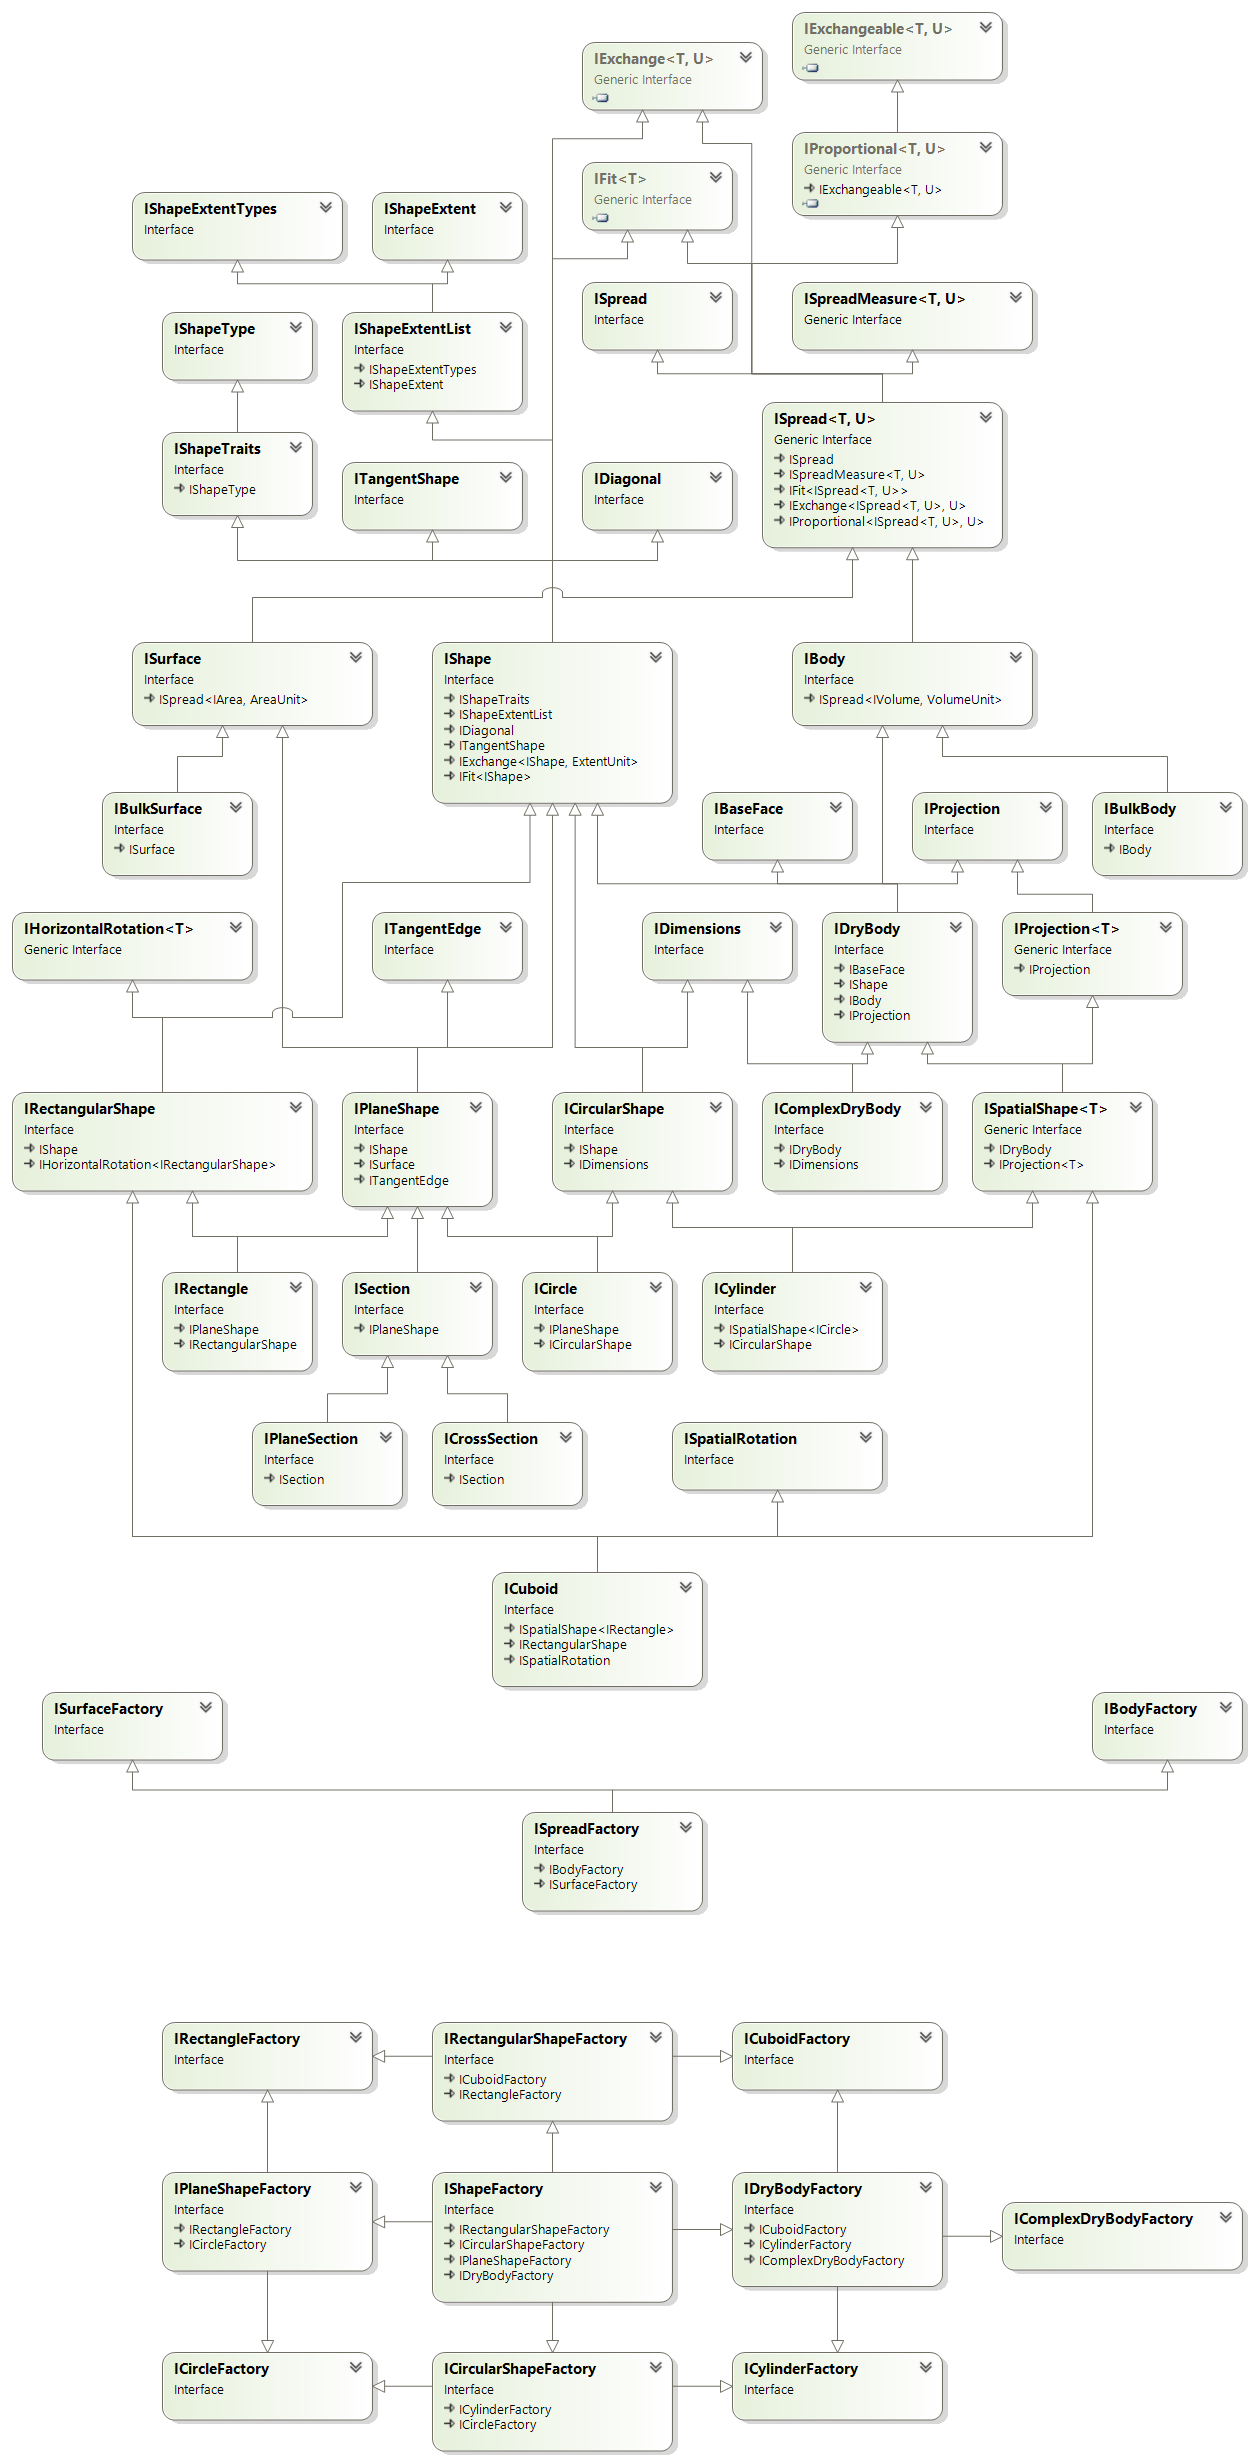
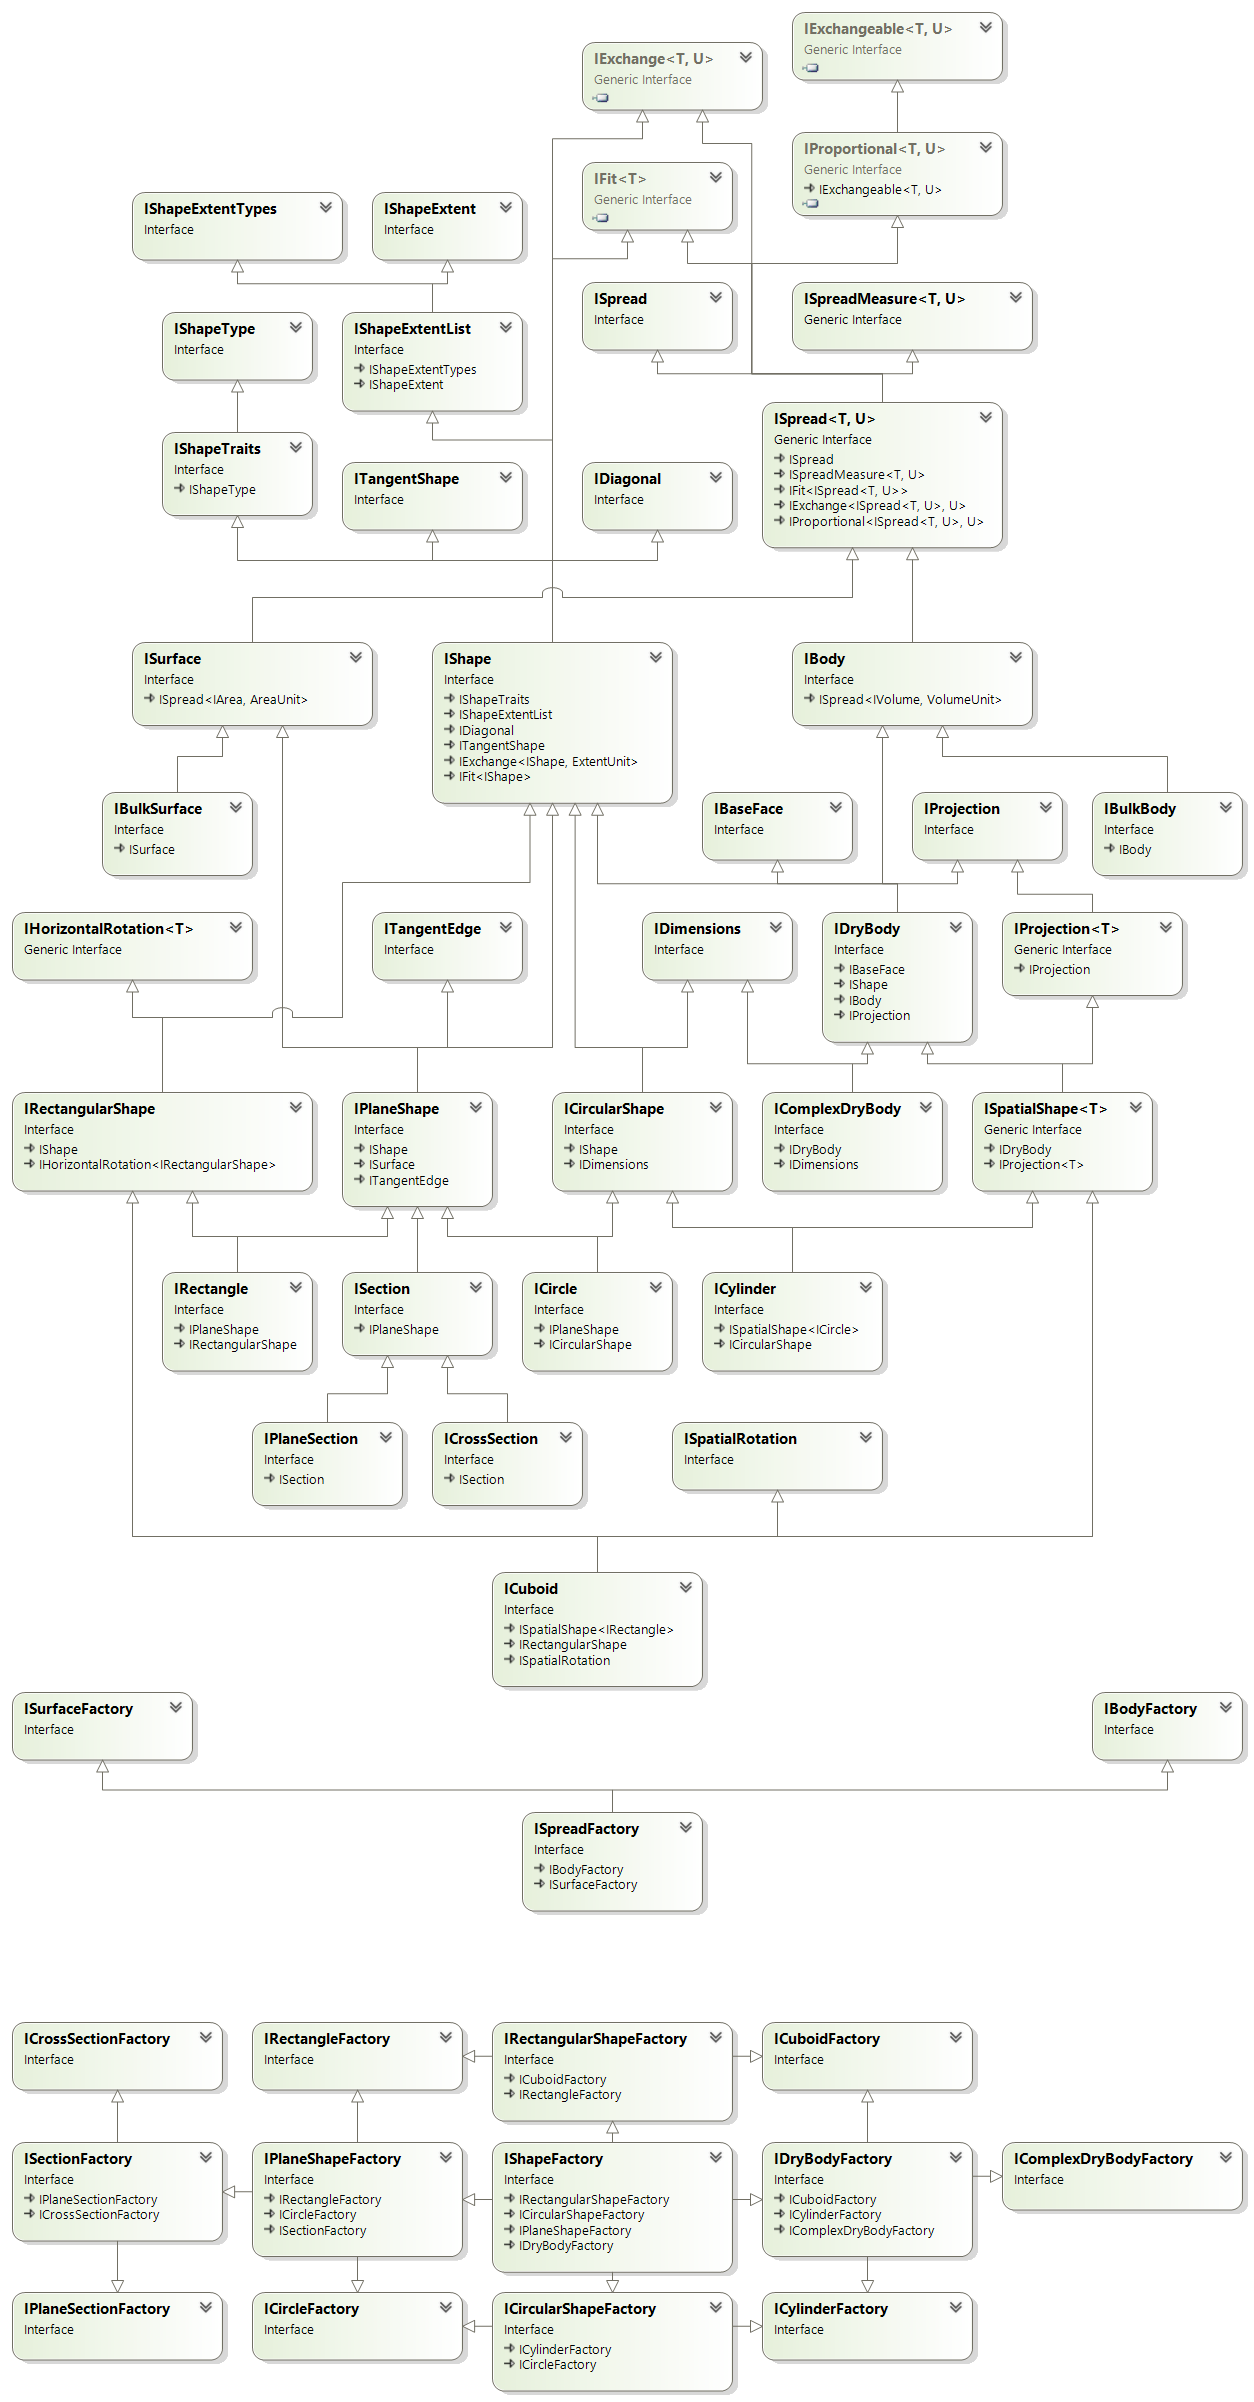
implement section factories

diff --git a/Geometrics/Factories/ShapeFactory.cs b/Geometrics/Factories/ShapeFactory.cs
@@ -3,7 +3,6 @@ using CsabaDu.FooVar.Geometrics.Interfaces.DataTypes.Shape;
 using CsabaDu.FooVar.Geometrics.Interfaces.DataTypes.Shape.ShapeAspects;
 using CsabaDu.FooVar.Geometrics.Interfaces.DataTypes.Shape.ShapeTypes;
 using CsabaDu.FooVar.Geometrics.Interfaces.Factories.Shape;
-using CsabaDu.FooVar.Geometrics.Statics;
 
 namespace CsabaDu.FooVar.Geometrics.Factories;
 
@@ -92,18 +91,23 @@ public sealed class ShapeFactory : IShapeFactory
         };
     }
 
-    public IPlaneShape GetPlaneShape(IPlaneShape planeShape)
+    public IPlaneShape GetPlaneShape(IPlaneShape planeShape, IRectangle? cornerPadding = null, ShapeExtentType? perpendicular = null)
     {
         _ = planeShape ?? throw new ArgumentNullException(nameof(planeShape));
+
+        if (cornerPadding == null)
+        {
+            IExtent[] shapeExtents = planeShape.GetShapeExtentList().ToArray();
+
+            return GetPlaneShape(shapeExtents);
+        }
 
         if (planeShape is ISection section)
         {
             planeShape = section.PlaneSectionShape;
         }
 
-        IExtent[] shapeExtents = planeShape.GetShapeExtentList().ToArray();
-
-        return GetPlaneShape(shapeExtents);
+        return GetSection(planeShape, cornerPadding, perpendicular);
     }
 
     public IRectangularShape GetRectangularShape(params IExtent[] shapeExtents)
@@ -177,5 +181,39 @@ public sealed class ShapeFactory : IShapeFactory
     public IComplexDryBody GetComplexDryBody(IEnumerable<IExtent> innerShapeExtentList, IEnumerable<IExtent>? outerShapeExtentList = null)
     {
         return new ComplexDryBody(innerShapeExtentList, outerShapeExtentList);
+    }
+
+    public ISection GetSection(IPlaneShape planeSectionShape, IRectangle cornerPadding, ShapeExtentType? perpendicular = null)
+    {
+        return perpendicular is not ShapeExtentType notNullPerpendicular ?
+            GetPlaneSection(planeSectionShape, cornerPadding)
+            : GetCrossSection(planeSectionShape, cornerPadding, notNullPerpendicular);
+    }
+
+    public ISection GetSection(ISection section, ShapeExtentType? perpendicular = null)
+    {
+        return perpendicular is not ShapeExtentType notNullPerpendicular ?
+            GetPlaneSection(section)
+            : GetCrossSection(section, notNullPerpendicular);
+    }
+
+    public IPlaneSection GetPlaneSection(IPlaneShape planeSectionShape, IRectangle cornerPadding)
+    {
+        return new PlaneSection(planeSectionShape, cornerPadding);
+    }
+
+    public IPlaneSection GetPlaneSection(ISection section)
+    {
+        return new PlaneSection(section);
+    }
+
+    public ICrossSection GetCrossSection(IPlaneShape planeSectionShape, IRectangle cornerPadding, ShapeExtentType perpendicular)
+    {
+        return new CrossSection(planeSectionShape, cornerPadding, perpendicular);
+    }
+
+    public ICrossSection GetCrossSection(ISection section, ShapeExtentType perpendicular)
+    {
+        return new CrossSection(section, perpendicular);
     }
 }

diff --git a/Geometrics/DataTypes/Shape/ShapeTypes/CrossSection.cs b/Geometrics/DataTypes/Shape/ShapeTypes/CrossSection.cs
@@ -2,8 +2,9 @@
 using CsabaDu.FooVar.Geometrics.DataTypes.Shape.ShapeTypes;
 using CsabaDu.FooVar.Geometrics.Interfaces.DataTypes.Shape.ShapeAspects;
 using CsabaDu.FooVar.Geometrics.Interfaces.DataTypes.Shape.ShapeTypes;
+using CsabaDu.FooVar.Geometrics.Statics;
 
-namespace Geometrics.DataTypes.Shape.ShapeTypes;
+namespace CsabaDu.FooVar.Geometrics.DataTypes.Shape.ShapeTypes;
 
 internal sealed class CrossSection : Section, ICrossSection
 {
@@ -48,7 +49,8 @@ internal sealed class CrossSection : Section, ICrossSection
             ShapeExtentType.Length => new Cuboid(width, depth, length),
             ShapeExtentType.Width => new Cuboid(length, depth, width),
             ShapeExtentType.Height => new Cuboid(length, width, depth),
-            _ => throw new NotImplementedException(),
+
+            _ => throw new InvalidOperationException(null),
         };
     }
 
@@ -67,21 +69,10 @@ internal sealed class CrossSection : Section, ICrossSection
 
     public void ValidatePerpendicular(ShapeExtentType perpendicular)
     {
-        if (IsValidPerpendicular(perpendicular)) return;
+        if (perpendicular == ShapeExtentType.Height) return;
+
+        if (perpendicular.IsValidShapeExtentType(ShapeTraits) == true) return;
 
         throw new ArgumentOutOfRangeException(nameof(perpendicular), perpendicular, null);
-    }
-
-    private bool IsValidPerpendicular(ShapeExtentType perpendicular)
-    {
-        return perpendicular switch
-        {
-            ShapeExtentType.Radius => ShapeTraits.HasFlag(ShapeTrait.Circular),
-            ShapeExtentType.Length => !ShapeTraits.HasFlag(ShapeTrait.Circular),
-            ShapeExtentType.Width => !ShapeTraits.HasFlag(ShapeTrait.Circular),
-            ShapeExtentType.Height => !ShapeTraits.HasFlag(ShapeTrait.Plane),
-
-            _ => false,
-        };
     }
 }

diff --git a/Geometrics/DataTypes/Shape/ShapeAspects/PlaneShape.cs b/Geometrics/DataTypes/Shape/ShapeAspects/PlaneShape.cs
@@ -1,6 +1,7 @@
 using CsabaDu.FooVar.Geometrics.Factories;
 using CsabaDu.FooVar.Geometrics.Interfaces.DataTypes.Shape;
 using CsabaDu.FooVar.Geometrics.Interfaces.DataTypes.Shape.ShapeAspects;
+using CsabaDu.FooVar.Geometrics.Interfaces.DataTypes.Shape.ShapeTypes;
 using CsabaDu.FooVar.Geometrics.Interfaces.DataTypes.Spread;
 
 namespace CsabaDu.FooVar.Geometrics.DataTypes.Shape.ShapeAspects;
@@ -46,9 +47,10 @@ internal abstract class PlaneShape : Shape, IPlaneShape
         return ShapeFactory.GetPlaneShape(shapeExtents);
     }
 
-    public IPlaneShape GetPlaneShape(IPlaneShape planeShape)
+    public IPlaneShape GetPlaneShape(IPlaneShape planeShape, IPlaneShape? cornerPadding = null, ShapeExtentType? perpendicular = null)
     {
-        return ShapeFactory.GetPlaneShape(planeShape);
+        if (cornerPadding is not IRectangle? rectangle)
+        return ShapeFactory.GetPlaneShape(planeShape, rectangle, perpendicular);
     }
 
     public IPlaneShape GetPlaneShape(AreaUnit? areaUnit = null)

diff --git a/Geometrics/Statics/ValidateGeometrics.cs b/Geometrics/Statics/ValidateGeometrics.cs
@@ -108,7 +108,20 @@ public static class ValidateGeometrics
 
         decimal quantity = shapeExtent.GetDecimalQuantity();
 
-        return quantity <= 0;
+        return quantity >= 0;
+    }
+
+    public static bool? IsValidShapeExtentType(this ShapeExtentType shapeExtentType, ShapeTrait shapeTraits)
+    {
+        return shapeExtentType switch
+        {
+            ShapeExtentType.Radius => shapeTraits.HasFlag(ShapeTrait.Circular),
+            ShapeExtentType.Length => !shapeTraits.HasFlag(ShapeTrait.Circular),
+            ShapeExtentType.Width => !shapeTraits.HasFlag(ShapeTrait.Circular),
+            ShapeExtentType.Height => !shapeTraits.HasFlag(ShapeTrait.Plane),
+
+            _ => null,
+        };
     }
 
     public static void ValidateShapeExtent(this IExtent shapeExtent)

diff --git a/Geometrics/Interfaces/Factories/Shape/IPlaneShapeFactory.cs b/Geometrics/Interfaces/Factories/Shape/IPlaneShapeFactory.cs
@@ -1,9 +1,10 @@
 using CsabaDu.FooVar.Geometrics.Interfaces.DataTypes.Shape.ShapeAspects;
+using CsabaDu.FooVar.Geometrics.Interfaces.DataTypes.Shape.ShapeTypes;
 
 namespace CsabaDu.FooVar.Geometrics.Interfaces.Factories.Shape;
 
-public interface IPlaneShapeFactory : IRectangleFactory, ICircleFactory
+public interface IPlaneShapeFactory : IRectangleFactory, ICircleFactory, ISectionFactory
 {
     IPlaneShape GetPlaneShape(params IExtent[] shapeExtents);
-    IPlaneShape GetPlaneShape(IPlaneShape planeShape);
+    IPlaneShape GetPlaneShape(IPlaneShape planeShape, IRectangle? cornerPadding = null, ShapeExtentType? perpendicular = null);
 }

diff --git a/Geometrics/Interfaces/Factories/Shape/ISectionFactory.cs b/Geometrics/Interfaces/Factories/Shape/ISectionFactory.cs
@@ -1,0 +1,10 @@
+using CsabaDu.FooVar.Geometrics.Interfaces.DataTypes.Shape.ShapeAspects;
+using CsabaDu.FooVar.Geometrics.Interfaces.DataTypes.Shape.ShapeTypes;
+
+namespace CsabaDu.FooVar.Geometrics.Interfaces.Factories.Shape;
+
+public interface ISectionFactory : IPlaneSectionFactory, ICrossSectionFactory
+{
+    ISection GetSection(IPlaneShape planeSectionShape, IRectangle cornerPadding, ShapeExtentType? perpendicular = null);
+    ISection GetSection(ISection section, ShapeExtentType? perpendicular = null);
+}

diff --git a/Geometrics/Interfaces/Factories/Shape/ICrossSectionFactory.cs b/Geometrics/Interfaces/Factories/Shape/ICrossSectionFactory.cs
@@ -1,0 +1,10 @@
+using CsabaDu.FooVar.Geometrics.Interfaces.DataTypes.Shape.ShapeAspects;
+using CsabaDu.FooVar.Geometrics.Interfaces.DataTypes.Shape.ShapeTypes;
+
+namespace CsabaDu.FooVar.Geometrics.Interfaces.Factories.Shape;
+
+public interface ICrossSectionFactory
+{
+    ICrossSection GetCrossSection(IPlaneShape planeSectionShape, IRectangle cornerPadding, ShapeExtentType perpendicular);
+    ICrossSection GetCrossSection(ISection section, ShapeExtentType perpendicular);
+}

diff --git a/Geometrics/Interfaces/Factories/Shape/IPlaneSectionFactory.cs b/Geometrics/Interfaces/Factories/Shape/IPlaneSectionFactory.cs
@@ -1,0 +1,10 @@
+using CsabaDu.FooVar.Geometrics.Interfaces.DataTypes.Shape.ShapeAspects;
+using CsabaDu.FooVar.Geometrics.Interfaces.DataTypes.Shape.ShapeTypes;
+
+namespace CsabaDu.FooVar.Geometrics.Interfaces.Factories.Shape;
+
+public interface IPlaneSectionFactory
+{
+    IPlaneSection GetPlaneSection(IPlaneShape planeSectionShape, IRectangle cornerPadding);
+    IPlaneSection GetPlaneSection(ISection section);
+}

diff --git a/Geometrics/Interfaces/DataTypes/Shape/ShapeAspects/IPlaneShape.cs b/Geometrics/Interfaces/DataTypes/Shape/ShapeAspects/IPlaneShape.cs
@@ -10,5 +10,5 @@ public interface IPlaneShape : IShape, ISurface, ITangentEdge
 
     IPlaneShape GetPlaneShape(ExtentUnit extentUnit);
     IPlaneShape GetPlaneShape(params IExtent[] shapeExtents);
-    IPlaneShape GetPlaneShape(IPlaneShape planeShape);
+    IPlaneShape GetPlaneShape(IPlaneShape planeShape, IPlaneShape? cornerPadding = null, ShapeExtentType? perpendicular = null);
 }

diff --git a/Geometrics/DataTypes/Shape/ShapeTypes/PlaneSection.cs b/Geometrics/DataTypes/Shape/ShapeTypes/PlaneSection.cs
@@ -2,7 +2,7 @@
 using CsabaDu.FooVar.Geometrics.Interfaces.DataTypes.Shape.ShapeAspects;
 using CsabaDu.FooVar.Geometrics.Interfaces.DataTypes.Shape.ShapeTypes;
 
-namespace Geometrics.DataTypes.Shape.ShapeTypes;
+namespace CsabaDu.FooVar.Geometrics.DataTypes.Shape.ShapeTypes;
 
 internal sealed class PlaneSection : Section, IPlaneSection
 {
